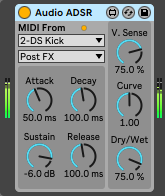
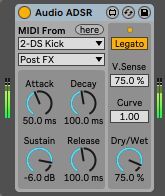
update Audio ADSR M4L device to 1.1.0

diff --git a/m4l/ja/index.html b/m4l/ja/index.html
@@ -508,7 +508,7 @@
     <h2><span id="audioAdsr">Audio ADSR</span></h2>
     <p><img src="../AudioADSR.png"><br/>
       <a href="https://maxforlive.com/library/device/7508">ダウンロード</a> (maxforlive.com)
-      最終更新: 2021/8/7, version 1.0.0</p>
+      最終更新: 2022/4/23, version 1.1.0</p>
     <p>オーディオトラックで使用できる、超シンプルなADSRエンベローパーです。<br/>
       Live 11.0.5 / Max 8.1.11 以降でのみ使用可能です。</p>
     <input id="audioAdsr-param" class="list-check" type="checkbox" checked />
@@ -518,6 +518,7 @@
         <li>MIDI Input Type: MIDI入力をMIDIトラックか外部MIDI入力から選択します。MIDIトラックの「MIDI From」と大体同じです。</li>
         <li>MIDI Input Channel: MIDI Input Typeで選択した入力からチャンネルを選択します。<br/>
           選択可能なチャンネルを持つMIDI入力が選択されていた場合のみ有効です。</li>
+        <li>here: ボタンを押すと、MIDI Input を自動的にデバイスが置かれているMIDIトラックの入力に変更します。オーディオトラックに置かれていた場合は押しても何も起きません。</li>
         <li>Attack: エンベロープのアタック時間を調整します。</li>
         <li>Decay: エンベロープのディケイ時間を調整します。</li>
         <li>Sustain: エンベロープのディケイ後のサスティン音量を調整します。</li>
@@ -526,6 +527,7 @@
         <li>Curve: エンベロープのカーブ度合いを調整します。</li>
         <li>Dry/Wet: エンベロープを掛け合わせた音と元の入力音の割合を調整します。<br/>
           ヒント: 負の値に設定することでサイドチェインコンプの様な効果が得られるかもしれません。</li>
+        <li>Legato: オンにすると、発生中のノートがある間はノートオンを受信してもカーブが始まりません。和音との使用に適しています。（初期値: オフ）</li>
       </ul>
     </div>
     <input id="audioAdsr-issues" class="list-check" type="checkbox" checked>
@@ -533,6 +535,18 @@
     <div class="list-content">
       <ul>
         <li>MIDI入力のタイプやチャンネルを続けて変更し元に戻した際、プルダウンリストが余計に元に戻ってしまう場合があります。</li>
+      </ul>
+    </div>
+    <input id="audioAdsr-releases" class="list-check" type="checkbox" />
+    <label class="list-label" for="audioAdsr-releases">更新履歴</label>
+    <div class="list-content">
+      <ul>
+        <li>Version 1.1.0 の変更点 (2022/4/23)</li>
+        <ul>
+          <li>和音で使用できるようLegatoボタンを追加しました。</li>
+          <li>デバイスが置かれているMIDIトラックに自動ルーティングできるhereボタンを追加しました。</li>
+        </ul>
+        <li>Version 1.0.0 : 初版 (2021/8/7)</li>
       </ul>
     </div>
     <hr/>

diff --git a/m4l/index.html b/m4l/index.html
@@ -519,7 +519,7 @@
     <h2><span id="audioAdsr">Audio ADSR</span></h2>
     <p><img src="AudioADSR.png"><br/>
       Download at <a href="https://maxforlive.com/library/device/7508">maxforlive.com</a>
-      (the last update: August 7, 2021 / version 1.0.0)</p>
+      (the last update: April 23, 2022 / version 1.1.0)</p>
     <p>A super simple ADSR enveloper for audio tracks.<br/>
       Available for use only in Live 11.0.5/Max 8.1.11 or above versions.</p>
     <input id="audioAdsr-param" class="list-check" type="checkbox" checked />
@@ -529,6 +529,7 @@
         <li>MIDI Input Type: Selects MIDI input type from MIDI tracks or external MIDI devices. Just like 'MIDI From' of MIDI tracks.</li>
         <li>MIDI Input Channel: Selects MIDI Input Channel from selected input type above.<br/>
           Available only when MIDI Input Type has selectable channels.</li>
+        <li>here: When pressed, MIDI Input will be routed to the track which the device belongs if the track is a MIDI track.</li>
         <li>Attack: Adjusts the Attack time of the envelope.</li>
         <li>Decay: Adjusts the Decay time of the envelope.</li>
         <li>Sustain: Adjusts the Sustain volume of the envelope.</li>
@@ -536,7 +537,8 @@
         <li>V. Sense: Adjusts the velocity sensitivity for the envelope's amplitude.</li>
         <li>Curve: Adjust the Curvature of the envelope.</li>
         <li>Dry/Wet: Adjust the ratio of processed sound and raw sound.<br/>
-          TIP: Setting negative value produces like sidechain-compressed effect.</li>
+          TIP: setting negative value produces like sidechain-compressed effect.</li>
+        <li>Legato: When enabled, the envelope wouldn't start with note on while playing at least one note.</li>
       </ul>
     </div>
     <input id="audioAdsr-issues" class="list-check" type="checkbox" checked />
@@ -544,6 +546,18 @@
     <div class="list-content">
       <ul>
         <li>Undoing a series of changes for MIDI input type or channel may cause extra revert for pulldown lists.</li>
+      </ul>
+    </div>
+    <input id="audioAdsr-releases" class="list-check" type="checkbox" />
+    <label class="list-label" for="audioAdsr-releases">Release notes</label>
+    <div class="list-content">
+      <ul>
+        <li>Changes in version 1.1.0 (April 23, 2022)</li>
+        <ul>
+          <li>Added "Legato" button to enable the mode for poly notes.</li>
+          <li>Added "here" button routing to the track where the device belongs.</li>
+        </ul>
+        <li>Version 1.0.0 : the first release (August 7, 2021)</li>
       </ul>
     </div>
     <hr/>
